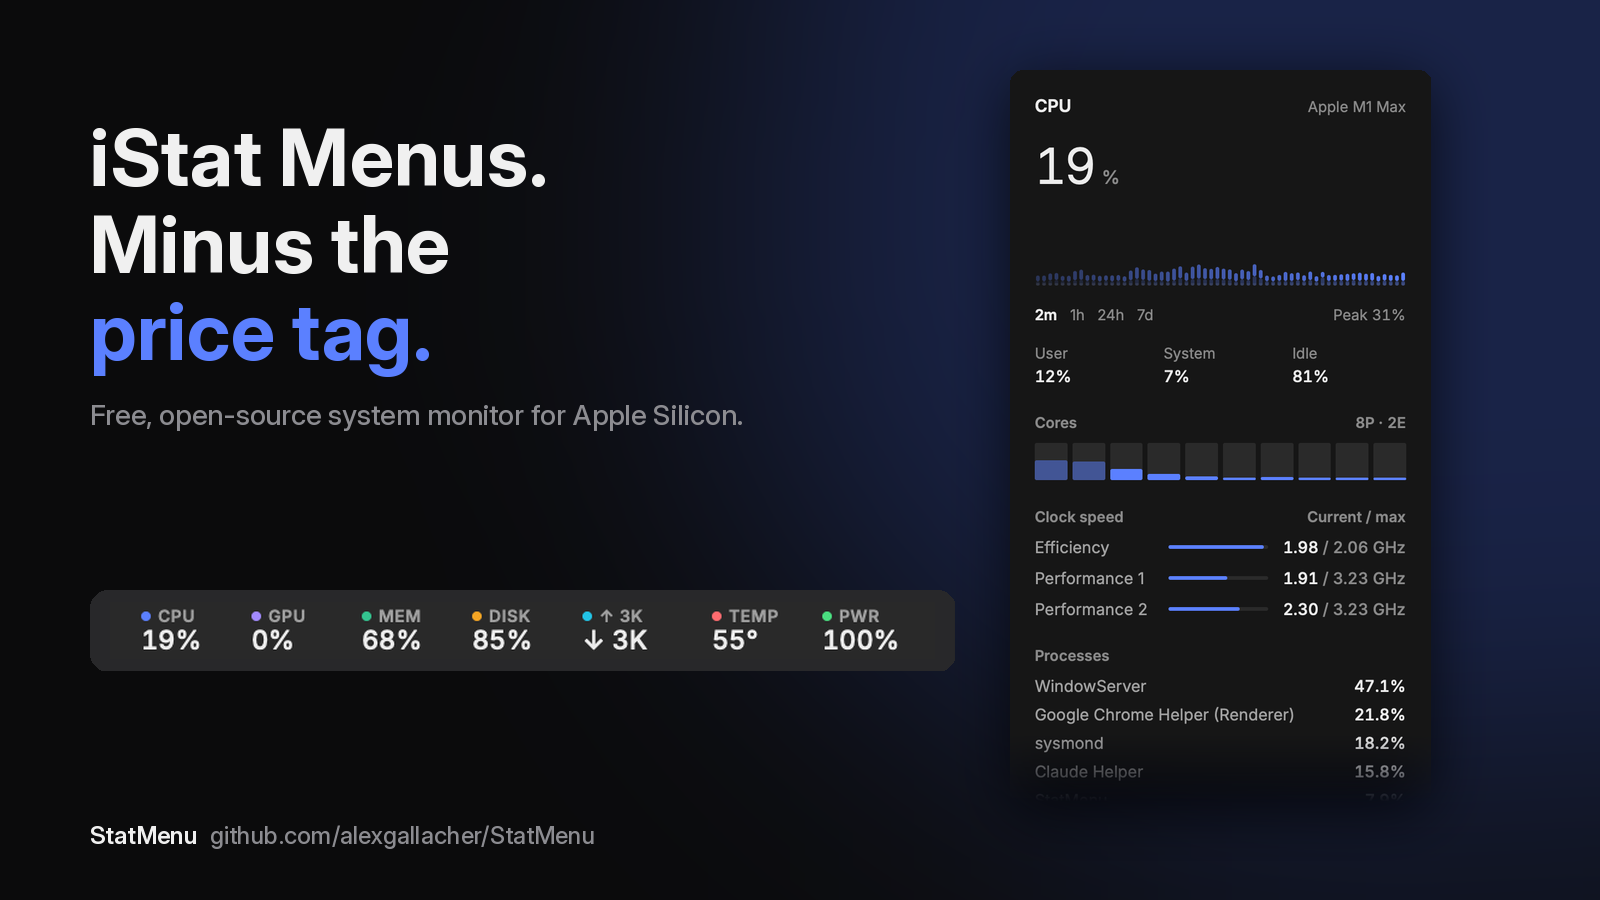
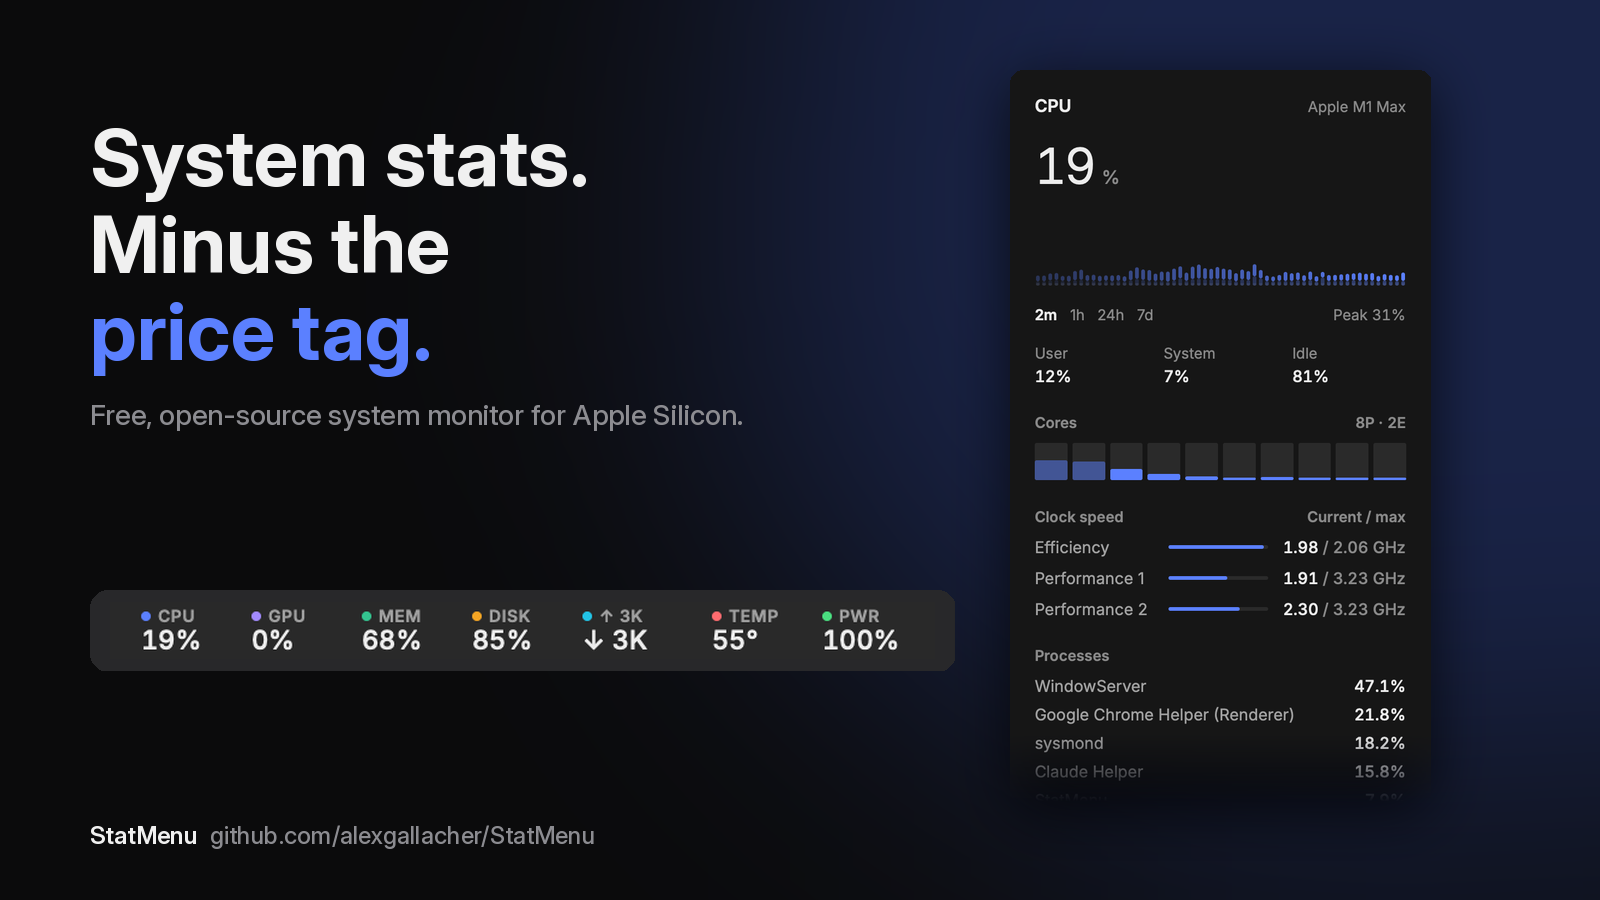
Remove iStat wording from README and hero image

Changed region(s): [[0.0312, 0.1244, 0.375, 0.2178]]

diff --git a/README.md b/README.md
@@ -1,6 +1,6 @@
 # StatMenu
 
-A free, open-source system monitor for the macOS menu bar, in the spirit of iStat Menus. Native Swift and SwiftUI, around 2% CPU while running.
+A free, open-source system monitor for the macOS menu bar. Native Swift and SwiftUI, around 2% CPU while running.
 
 ![StatMenu](docs/hero.png)
 
